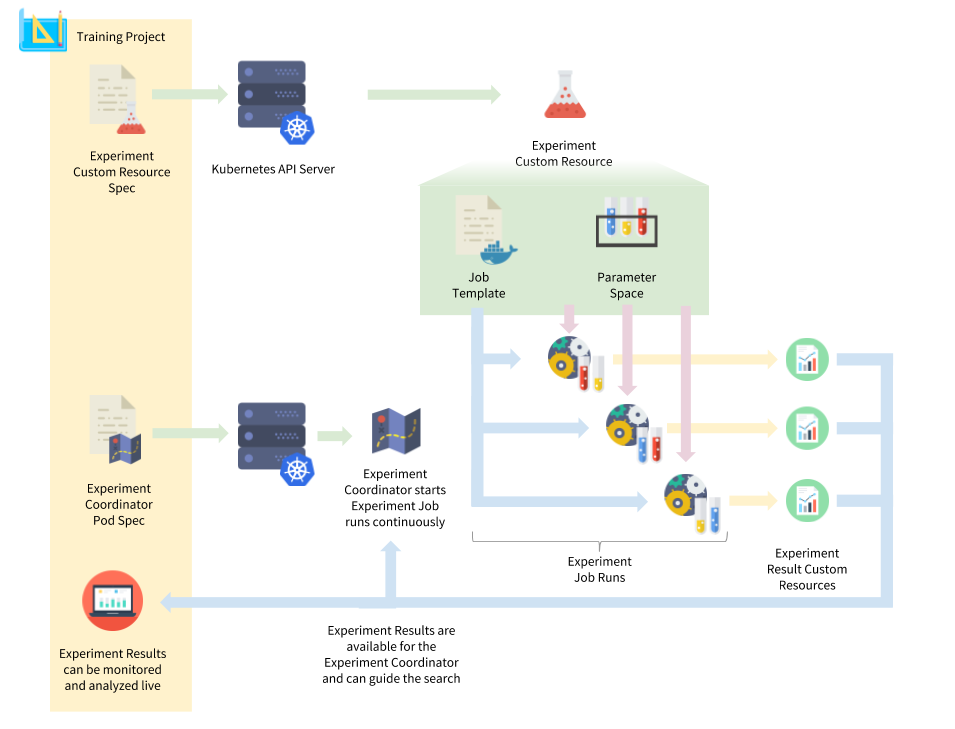
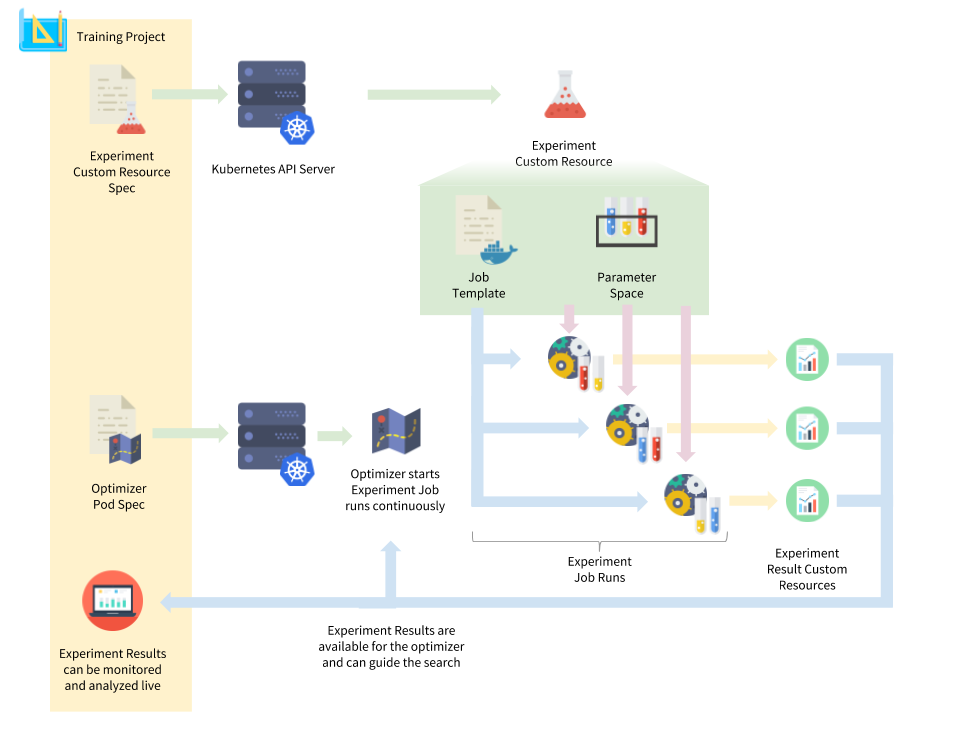
Addressed Connor's comments

Changed region(s): [[0.3644, 0.6337, 0.4859, 0.7243], [0.334, 0.8752, 0.4859, 0.9355], [0.0911, 0.6639, 0.1518, 0.7243]]

diff --git a/README.md b/README.md
@@ -8,7 +8,7 @@ This project provides an API for experiments, aims to standardize metadata assoc
 
 This is done through moving the experiment context into a shared API to promote sharing results and the development of tooling and decoupling parameter space search from job execution.
 
-![overview figure](docs/images/overview.png)
+(![overview figure](docs/images/overview.png))[https://docs.google.com/drawings/d/1CGDVt9finf_QC_H6lAIW9StmYiNOCLoemAmpNRN47tg/edit]
 
 ## Prerequisites
 
